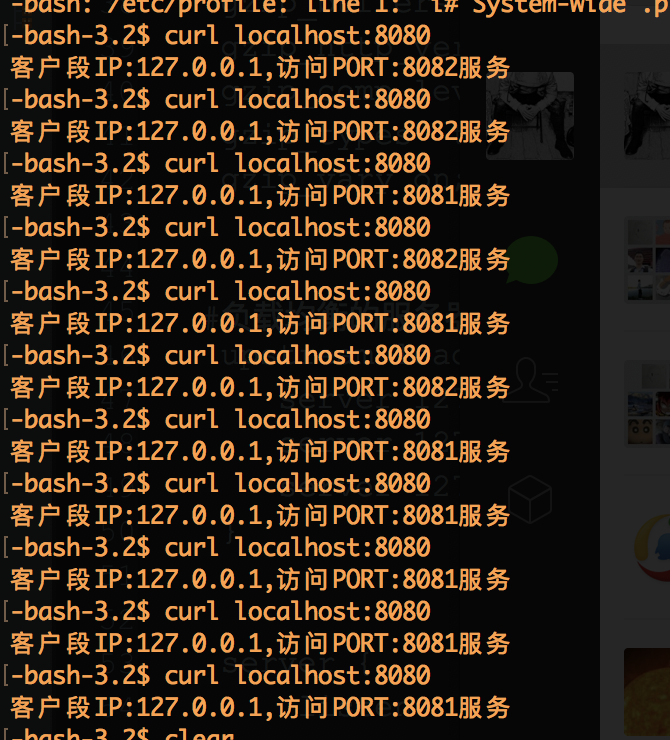
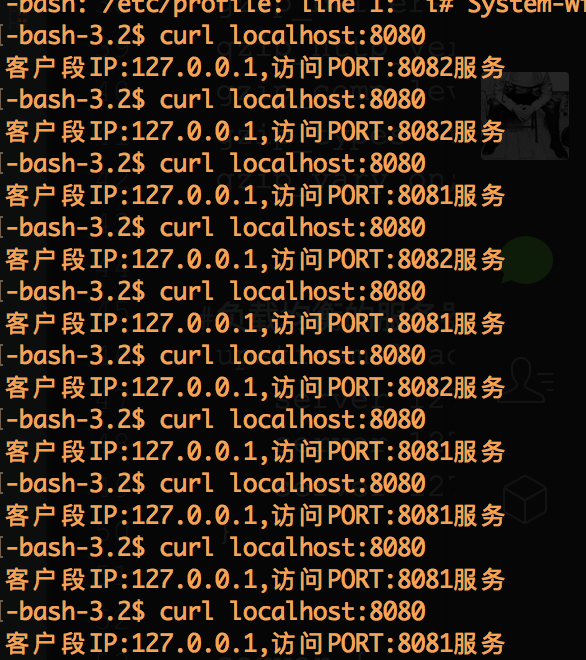
adjust the size of png

diff --git a/README.md b/README.md
@@ -1,4 +1,4 @@
-# springboot nginx cluster
+# springboot nginx & haproxy 负载均衡比对
 
 
 # 目标:
